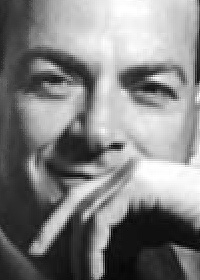
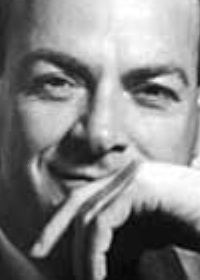
Correction in bilinear sampling

diff --git a/digidark/image.py b/digidark/image.py
@@ -1,7 +1,8 @@
 from digidark.mathf import bilerp
 
 import cv2
-import numpy
+import numpy as np
+import math
 
 class Image:
 
@@ -10,22 +11,41 @@ class Image:
         self.sampling = sampling
         (self.height, self.width) = self.shape()
 
+    """
+    pidx: pixel coordinate (x, y)
+    """
     def __getitem__(self, pidx):
-        (j, i) = pidx
-        i = max(0, min(i, self.height - 1))
-        j = max(0, min(j, self.width - 1))
+        (x, y) = pidx
 
         if self.sampling == 'none':
-            return self.pixels[i][j]
+            x = max(0, min(x, self.width - 1))
+            y = max(0, min(y, self.height - 1))
+            return self.pixels[y][x]
         else:
-            return bilerp(self.pixels, i, j)
+            return self.bilerp_sampling(x, y)
 
     def __setitem__(self, pidx, pval):
-        (j, i) = pidx
-        i = max(0, min(i, self.height - 1))
-        j = max(0, min(j, self.width - 1))
+        (x, y) = pidx
+        x = max(0, min(x, self.width - 1))
+        y = max(0, min(y, self.height - 1))
 
-        self.pixels[i][j] = pval
+        self.pixels[y][x] = pval
+
+    def bilerp_sampling(self, x, y):
+        i0 = int(max(0, min(self.height - 1, y)))
+        j0 = int(max(0, min(self.width - 1, x)))
+        i1 = int(max(0, min(self.height - 1, y + 1)))
+        j1 = int(max(0, min(self.width - 1, x + 1)))
+
+        c0 = np.float32(self.pixels[i0][j0])
+        c1 = np.float32(self.pixels[i0][j1])
+        c2 = np.float32(self.pixels[i1][j0])
+        c3 = np.float32(self.pixels[i1][j1])
+
+        s = x - math.floor(x)
+        t = y - math.floor(y)
+
+        return np.uint8(bilerp(c0, c1, c2, c3, s, t))
 
     def read(self, filename):
         self.pixels = cv2.imread(filename)
@@ -43,23 +63,21 @@ class Image:
 
         return self.pixels.shape[0:-1]
 
-    def resize(self, height, width):
-        resized = numpy.ndarray(dtype='uint8', shape=(height, width, 3))
+    def resized(self, height, width, sampling='none'):
+        resized = np.ndarray(dtype='uint8', shape=(height, width, 3))
 
-        sy = self.height / height
-        sx = self.width / width
+        sy = float(self.height / height)
+        sx = float(self.width / width)
 
         for i in range(height):
             for j in range(width):
                 if self.sampling == 'none':
                     resized[i][j] = self.pixels[i * sy][j * sx]
                 else:
-                    resized[i][j] = bilerp(self.pixels,
-                                           (i + 0.5) * sy, (j + 0.5) * sx)
+                    resized[i][j] = self.bilerp_sampling(j * sx, i * sy)
 
         return Image(resized, self.sampling)
 
-    def scale(self, factor):
-        return self.resize(int(self.height * factor),
-                           int(self.width * factor))
-
+    def scaled(self, factor):
+        return self.resized(int(self.height * factor),
+                            int(self.width * factor))

diff --git a/tests/test.py b/tests/test.py
@@ -6,23 +6,26 @@ import digidark.interpreter
 
 ddi = digidark.interpreter.Interpreter()
 
-ddi.load('docs/images/feynman.jpg', sampling='bilinear')
+ddi.load('../docs/images/feynman.jpg', sampling='bilinear')
+
+ddi.eval('new[x, y] = old[rect(r / 2, a)]')
+ddi.save('../docs/images/feynman-zoomed.jpg')
+
 """
 ddi.eval('new[x, y] = old[rect(r, a + rad(45))]')
 ddi.save('docs/images/feynman-rotated.jpg')
 
 ddi.eval('new[x, y] = old[abs(X / 2 - x), y]')
 ddi.save('docs/images/feynman-mirrored.jpg')
+"""
 
-ddi.eval('new[x, y] = old[rect(r / 2, a)]')
-ddi.save('docs/images/feynman-zoomed.jpg')
-
+"""
 ddi.eval('new[x, y] = 0.33 * ((gray(Z - old[x - 25, y]) / Z) * rgb(0, 0, 255)) + 0.33 * ((gray(Z - old[x, y]) / Z) * rgb(0, 255, 0)) + 0.33 * ((gray(Z - old[x + 25, y]) / Z) * rgb(255, 0, 0))')
 ddi.save('docs/images/feynman-lsd.jpg')
-"""
+
 ddi.eval('new[x, y] = old[x % (X / 2) * 2, y % (Y / 2) * 2] * ((x < X / 2 ? (y < Y / 2 ? rgb(255, 0, 0) : rgb(0, 255, 0)) : (y < Y / 2 ? rgb(255, 255, 0) : rgb(0, 255, 255))) / Z)')
 ddi.save('docs/images/feynman-mosaic.jpg')
-"""
+
 ddi.eval('new[x, y] = gray(old[floor(x / 2) * 2, floor(y / 2) * 2]) > 150 ? rgb(255, 255, 255) : rgb(0, 0, 0)')
 ddi.save('docs/images/feynman-icon.jpg')
 """

diff --git a/digidark/mathf.py b/digidark/mathf.py
@@ -1,6 +1,6 @@
 import cmath
 import math
-from numpy import float32, uint8
+from numpy import float32
 
 """
 Convert from rectangular coordinates to polar
@@ -42,22 +42,16 @@ def rad(degs):
     return degs / 180.0 * math.pi
 
 """
+Linear interpolation
+"""
+def lerp(v0, v1, t):
+    return v0 * (1 - t) + v1 * t
+
+"""
 Bilinear interpolation
 """
-def bilerp(img, y, x):
-    (height, width) = img.shape[:-1]
-    i = max(0.5, min(height - 1.5, float(y)))
-    j = max(0.5, min(width - 1.5, float(x)))
-    c0 = float32(img[i - 0.5][j - 0.5])
-    c1 = float32(img[i - 0.5][j + 0.5])
-    c2 = float32(img[i + 0.5][j - 0.5])
-    c3 = float32(img[i + 0.5][j + 0.5])
-
-    s = j + 0.5 - math.ceil(j - 0.5)
-    t = i + 0.5 - math.ceil(i - 0.5)
-
-    return uint8((c0 * (1.0 - s) + c1 * s) * (1.0 - t) +
-                 (c2 * (1.0 - s) + c3 * s) * t)
+def bilerp(v0, v1, v2, v3, s, t):
+    return lerp(lerp(v0, v1, s), lerp(v2, v3, s), t)
 
 """
 Pixel average

diff --git a/digidark/interpreter.py b/digidark/interpreter.py
@@ -31,7 +31,7 @@ class Interpreter:
         img = ddi.Image(sampling=sampling)
         img.read(filename)
 
-        self.symbol_table[imgname] = img.scale(scaling) 
+        self.symbol_table[imgname] = img.scaled(scaling) 
 
     def save(self, filename, imgname='new'):
         self.symbol_table[imgname].write(filename)
